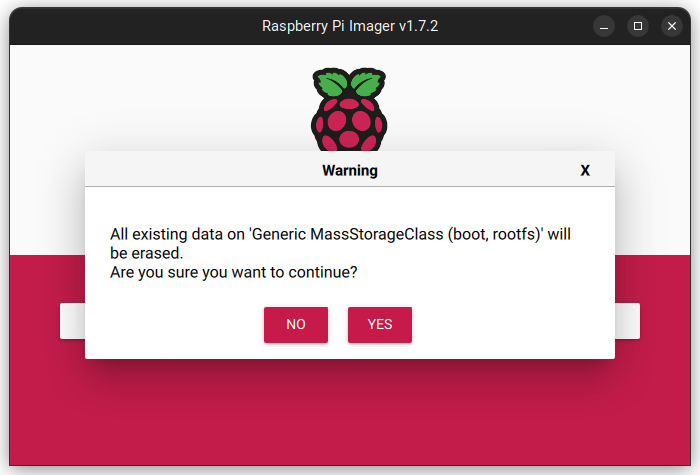
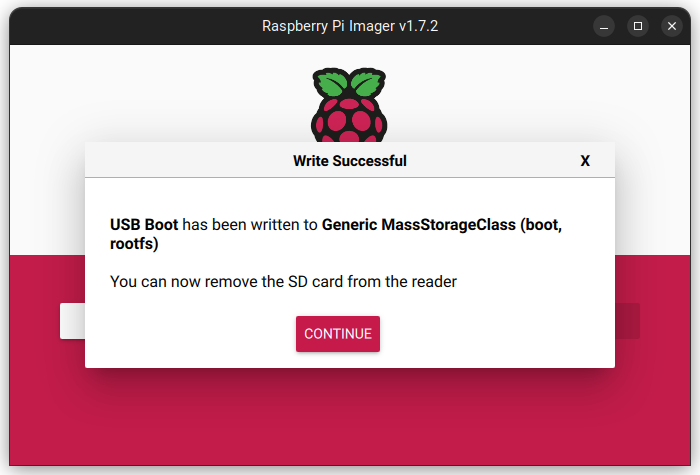
📝 Write the doc to boot on SSD

diff --git a/tips/boot-on-ssd/README.md b/tips/boot-on-ssd/README.md
@@ -2,7 +2,7 @@
 
 ## Download Raspberry Pi Imager
 
-Goto [https://www.raspberrypi.com/software/]
+Goto [Raspberry Pi Download page](https://www.raspberrypi.com/software/ 'Raspberry Pi Download page')
 
 or with Ubuntu:
 
@@ -10,8 +10,50 @@ or with Ubuntu:
 sudo apt install rpi-imager
 ```
 
+The main purpose of this app is to prepare a SD card for a Raspberry Pi. You can choose among a long list of OS sorted by categories.
+It avoids you to search for the last version of an OS, download it and use Balena Etcher to push the OS to the SD card (even if it's perfectly fine!).
+You can also use utility images to install a bootloader different from the default one, and this is what we're looking for!
+
 ## Run Raspberry Pi Imager and prepare the card
 
-### Chose an OS
+### Choose the OS
 
-![Chose OS](images/1.png?raw=true 'Chose OS')
+The first thing you have to do is to choose the kind of OS.
+So, click on "Choose OS"
+
+![Choose OS](images/1.png?raw=true 'Choose OS')
+
+Then choose "**Misc utility images**"
+
+![Choose Misc utility images](images/2.png?raw=true 'Choose Misc utility images')
+
+Then choose "**Bootloader**"
+
+![Choose Bootloader](images/3.png?raw=true 'Choose Bootloader')
+
+And finally, choose "**USB Boot**"
+
+![Choose USB Boot](images/4.png?raw=true 'Choose USB Boot')
+
+## Choose the storage
+
+Now, we have to choose the "**Storage**" to have the utility installed into the SD card.
+
+![Choose Storage](images/5.png?raw=true 'Choose Storage')
+
+Be carefull, if you choose a wrong storage, you'll lose all the data in it.
+
+## Write the OS to the SD Card
+
+Finally, after agreeing on the warning, write the OS into the SD Card.
+
+![Write the OS to the SD Card](images/5.png?raw=true 'Write the OS to the SD Card')
+
+## Write the bootloader from the SD card to the Raspberry Pi
+
+Take your freshly installed SD Card, insert it into your Raspberry Pi and boot it.
+Wait at least one minute and shutdown your RPI.
+
+## Conclusion
+
+Your RPI is ready to boot to an external USB disk instead of the classic SD Card.
